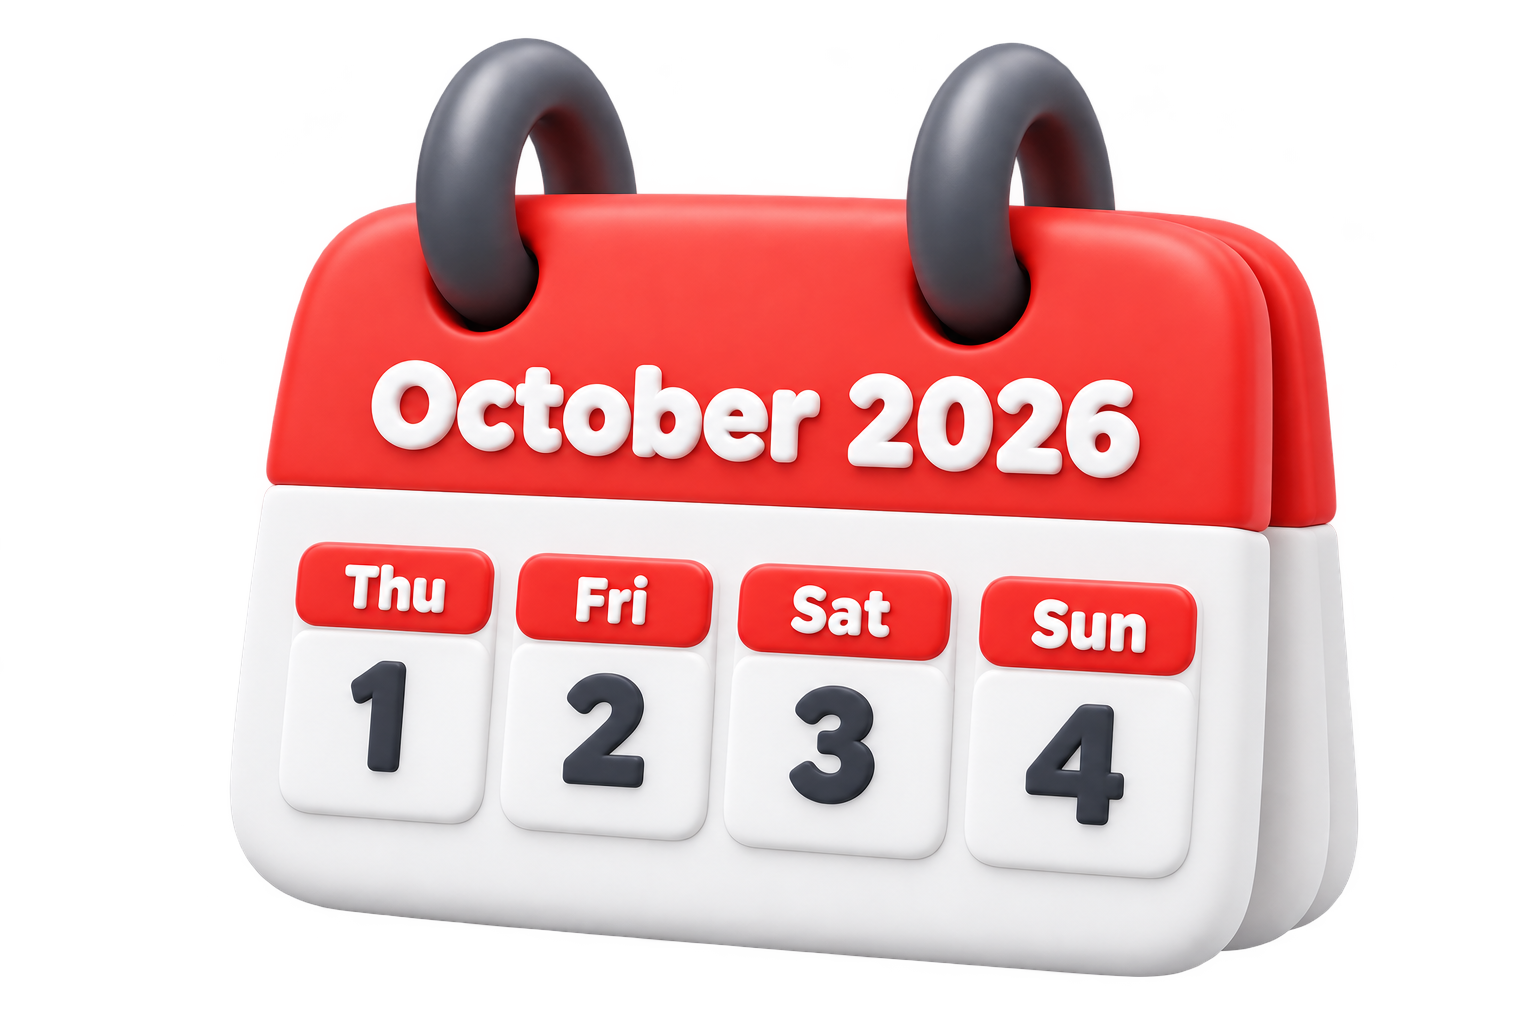
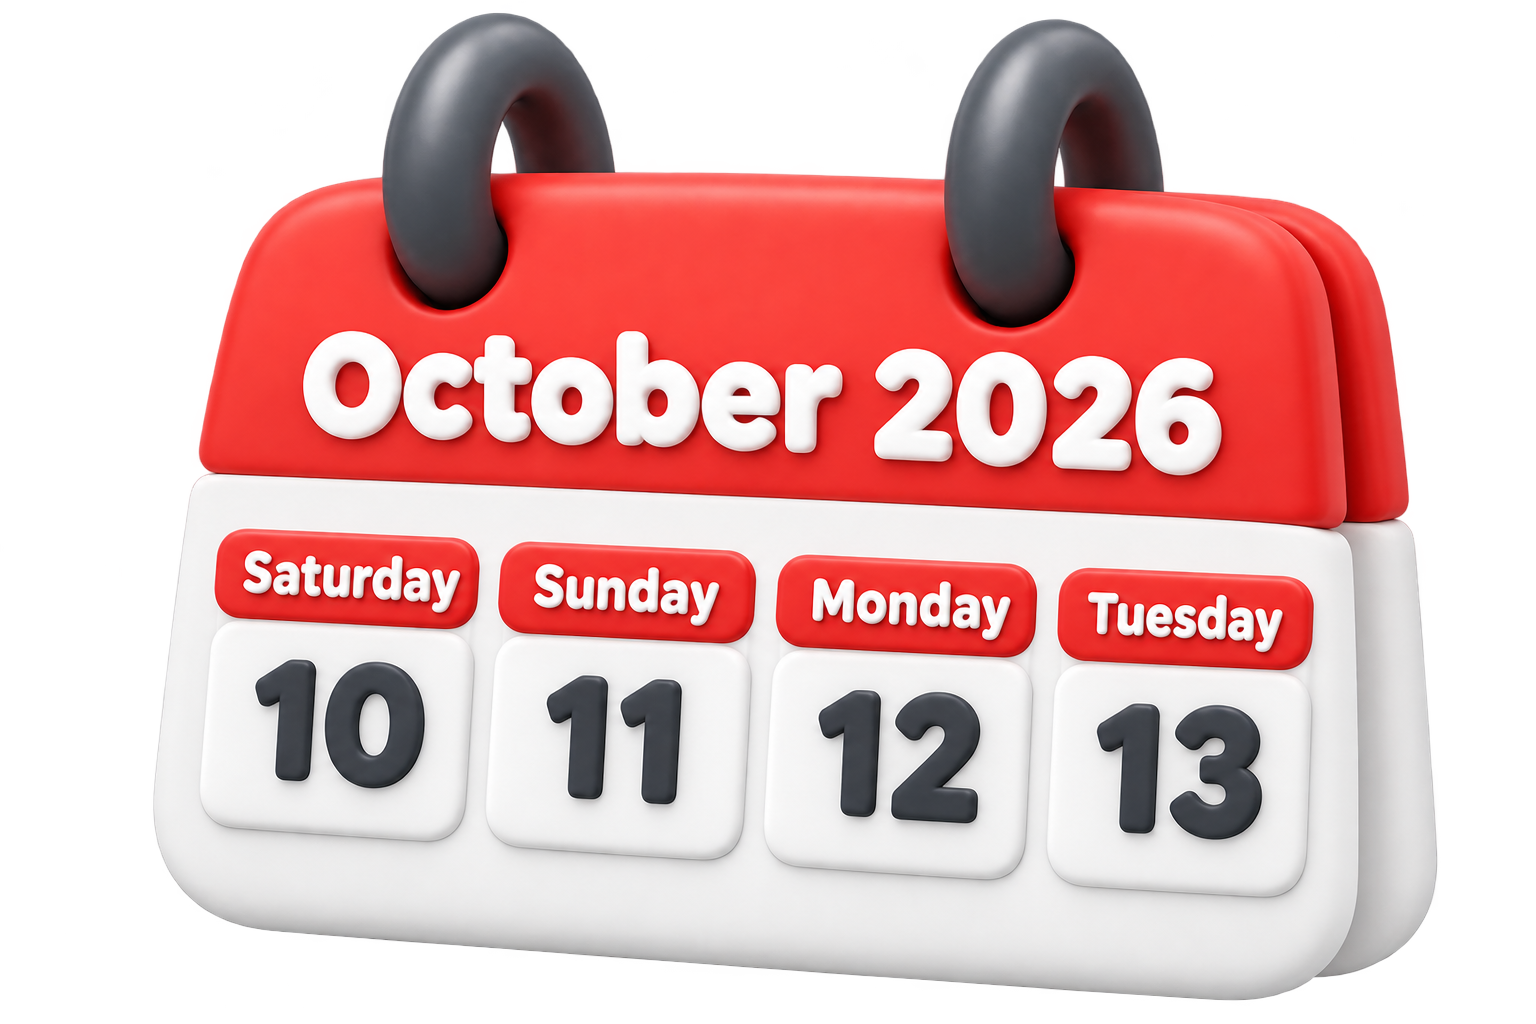
mobile fix

diff --git a/public/site.css b/public/site.css
@@ -1570,3 +1570,194 @@ h2 {
   white-space: nowrap;
   border: 0;
 }
+
+/* Mobile type scale: every font size renders 15% smaller at phone widths. */
+/* Values mirror the winning declaration for each selector at that width, x0.85. */
+@media (max-width: 767px) {
+  :root {
+    font-size: 17.68px;
+  }
+  .eyebrow {
+    font-size: 13.26px;
+  }
+  .hero-actions .text-link {
+    font-size: 16.58px;
+  }
+  .button {
+    font-size: 16.58px;
+  }
+  .text-link {
+    font-size: 16.58px;
+  }
+  .hero-note {
+    font-size: clamp(26.52px, 2.45vw, 45.08px);
+  }
+  .section-title {
+    font-size: clamp(32.05px, 2.55vw, 47.52px);
+  }
+  h2 {
+    font-size: clamp(32.05px, 2.55vw, 47.52px);
+  }
+  .section-intro {
+    font-size: 18.79px;
+  }
+  .sport-format {
+    font-size: 12.75px;
+  }
+  .sport-symbol {
+    font-size: 122.23px;
+  }
+  .sport h3 {
+    font-size: 27.37px;
+  }
+  .sport p {
+    font-size: 15.64px;
+  }
+  .sport-link {
+    font-size: 13.69px;
+  }
+  .section-note {
+    font-size: 15.47px;
+  }
+  .team-count {
+    font-size: 13.26px;
+  }
+  .venue-copy > p:not(.eyebrow) {
+    font-size: 18.79px;
+  }
+  .faq summary:after {
+    font-size: 26.52px;
+  }
+  .faq p {
+    font-size: 17.68px;
+  }
+  .closing h2 {
+    font-size: clamp(37.57px, 3.4vw, 55.25px);
+  }
+  .site-footer {
+    font-size: 15.47px;
+  }
+  .registration-aside {
+    font-size: 15.47px;
+  }
+  .input-group {
+    font-size: 15.47px;
+  }
+  .input-group input {
+    font-size: 17.68px;
+  }
+  .input-group select {
+    font-size: 17.68px;
+  }
+  .sport-choice input[data-team] {
+    font-size: 17.68px;
+  }
+  .sport-choice .slots-filled {
+    font-size: 13.26px;
+  }
+  .sport-choice .registered-state {
+    font-size: 13.26px;
+  }
+  .sport-choice .sport-choice-icon {
+    font-size: 35.7px;
+  }
+  .registration-sport-icon .sport-choice-icon {
+    font-size: 30.6px;
+  }
+  .registration-sport-copy > strong {
+    font-size: 17px;
+  }
+  .registration-sport-copy > span {
+    font-size: 11.9px;
+  }
+  .registration-sport-chevron {
+    font-size: 20.4px;
+  }
+  .registration-summary .registered-state {
+    font-size: 13.26px;
+  }
+  .captain-tag {
+    font-size: 13.26px;
+  }
+  .jersey-badge {
+    font-size: 13.26px;
+  }
+  .desktop-nav {
+    font-size: 13.6px;
+  }
+  .wordmark {
+    font-size: 20.4px;
+  }
+  .masthead-link {
+    font-size: 13.26px;
+  }
+  .hero-title {
+    font-size: clamp(37.4px, 8.07vw, 64.09px);
+  }
+  .hero-copy .eyebrow {
+    font-size: 19.89px;
+  }
+  .hero-sub {
+    font-size: 17.34px;
+  }
+  .hero-actions .button {
+    font-size: 11.9px;
+  }
+  .event-strip strong {
+    font-size: 15.47px;
+  }
+  .event-strip span {
+    font-size: 12.16px;
+  }
+  .team-story h2 {
+    font-size: 37.57px;
+  }
+  .team-story > p:not(.eyebrow) {
+    font-size: 17.68px;
+  }
+  .team-tabs button {
+    font-size: 15.47px;
+  }
+  .team-name {
+    font-size: 13.6px;
+  }
+  .faq summary {
+    font-size: 18.79px;
+  }
+  .steps li {
+    font-size: 13.26px;
+  }
+  .registration-header h1 {
+    font-size: 46.41px;
+  }
+  .registration-content h2 {
+    font-size: 32.05px;
+  }
+  .venue-map p {
+    font-size: 15.47px;
+  }
+  #company-logo-note {
+    font-size: 13.6px;
+  }
+  .player-photo-clear {
+    font-size: 12.75px;
+  }
+  .player-photo-placeholder::before {
+    font-size: 25.5px;
+  }
+  .player-photo-pick {
+    font-size: 11.05px;
+  }
+  .jersey-selector legend {
+    font-size: 11.9px;
+  }
+  #captain-note {
+    font-size: 13.6px;
+  }
+}
+
+@media (max-width: 380px) {
+  .masthead-link {
+    font-size: 10.2px;
+  }
+}

diff --git a/public/admin.css b/public/admin.css
@@ -1027,3 +1027,143 @@ tbody tr:hover {
     grid-column: 1 / -1;
   }
 }
+
+/* Mobile type scale: every font size renders 15% smaller at phone widths. */
+/* Values mirror the winning declaration for each selector at that width, x0.85. */
+@media (max-width: 700px) {
+  body {
+    font-size: 11.9px;
+  }
+  .brand-sub {
+    font-size: 10.2px;
+  }
+  .workspace-label {
+    font-size: 8.5px;
+  }
+  .eyebrow {
+    font-size: 8.5px;
+  }
+  nav .nav-index {
+    font-size: 9.35px;
+  }
+  .sidebar-bottom {
+    font-size: 10.2px;
+  }
+  .edition {
+    font-size: 7.65px;
+  }
+  .text-button {
+    font-size: 10.2px;
+  }
+  .heading-meta {
+    font-size: 9.35px;
+  }
+  label {
+    font-size: 10.2px;
+  }
+  th {
+    font-size: 8.5px;
+  }
+  td {
+    font-size: 11.05px;
+  }
+  .sub {
+    font-size: 9.35px;
+  }
+  .mono {
+    font-size: 9.35px;
+  }
+  .status {
+    font-size: 8.5px;
+  }
+  .empty h2 {
+    font-size: 22.1px;
+  }
+  .empty-symbol {
+    font-size: 18.7px;
+  }
+  .panel h2 {
+    font-size: 13.6px;
+  }
+  .section-title {
+    font-size: 13.6px;
+  }
+  .data dt {
+    font-size: 9.35px;
+  }
+  .data dd {
+    font-size: 11.9px;
+  }
+  .amount {
+    font-size: 34px;
+  }
+  .receipt-link {
+    font-size: 10.2px;
+  }
+  .team-initial {
+    font-size: 21.25px;
+  }
+  .team-row p {
+    font-size: 10.2px;
+  }
+  .form-note {
+    font-size: 10.2px;
+  }
+  .timeline li {
+    font-size: 10.2px;
+  }
+  .login-note {
+    font-size: 10.2px;
+  }
+  .back {
+    font-size: 10.2px;
+  }
+  .pagination {
+    font-size: 10.2px;
+  }
+  .brand {
+    font-size: 13.6px;
+  }
+  .mark {
+    font-size: 19.55px;
+  }
+  .sidebar nav a {
+    font-size: 10.2px;
+  }
+  .topbar {
+    font-size: 8.5px;
+  }
+  .heading h1 {
+    font-size: 30.6px;
+  }
+  .heading p {
+    font-size: 11.05px;
+  }
+  .login h1 {
+    font-size: 37.4px;
+  }
+  .verification-card time {
+    font-size: 0.96rem;
+  }
+  .jersey-badge {
+    font-size: 11.05px;
+  }
+  .roster-editor .error {
+    font-size: 11.9px;
+  }
+  .roster-fields legend {
+    font-size: 12.75px;
+  }
+  .player-photo-clear {
+    font-size: 12.75px;
+  }
+  .player-photo-placeholder::before {
+    font-size: 25.5px;
+  }
+  .player-photo-pick {
+    font-size: 11.05px;
+  }
+  .jersey-selector legend {
+    font-size: 11.9px;
+  }
+}

diff --git a/public/index.html b/public/index.html
@@ -7,7 +7,7 @@
     <meta name="description" content="RONB Corporate Championship, October 1–4, 2026." />
     <title>RONB Corporate Championship 2026</title>
     <link rel="icon" href="/favicon.svg" type="image/svg+xml" />
-    <link rel="stylesheet" href="/assets/site.css?v=20260921-1" />
+    <link rel="stylesheet" href="/assets/site.css?v=20260923-1" />
     <script type="module" src="/assets/site.js?v=20260921-1"></script>
   </head>
   <body>

diff --git a/public/admin.html b/public/admin.html
@@ -4,7 +4,7 @@
     <meta charset="utf-8" />
     <meta name="viewport" content="width=device-width, initial-scale=1" />
     <title>Event desk · Ronb Events</title>
-    <link rel="stylesheet" href="/assets/admin.css?v=20260918-1" />
+    <link rel="stylesheet" href="/assets/admin.css?v=20260923-1" />
     <script type="module" src="/assets/admin.js?v=20260918-1"></script>
   </head>
   <body>
